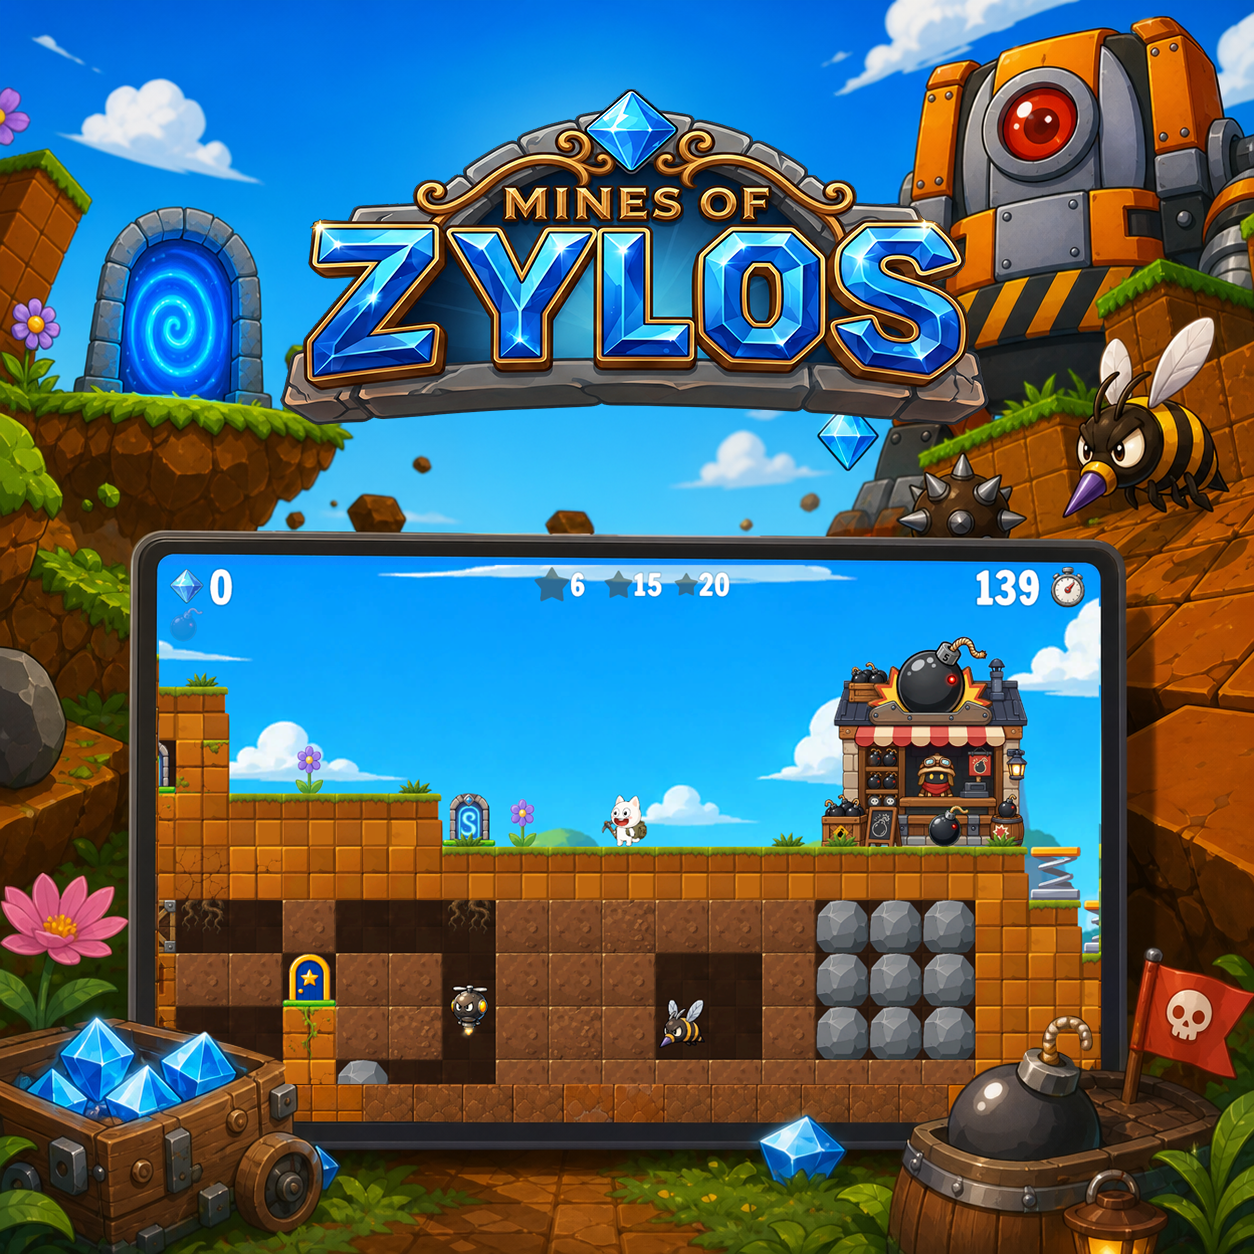
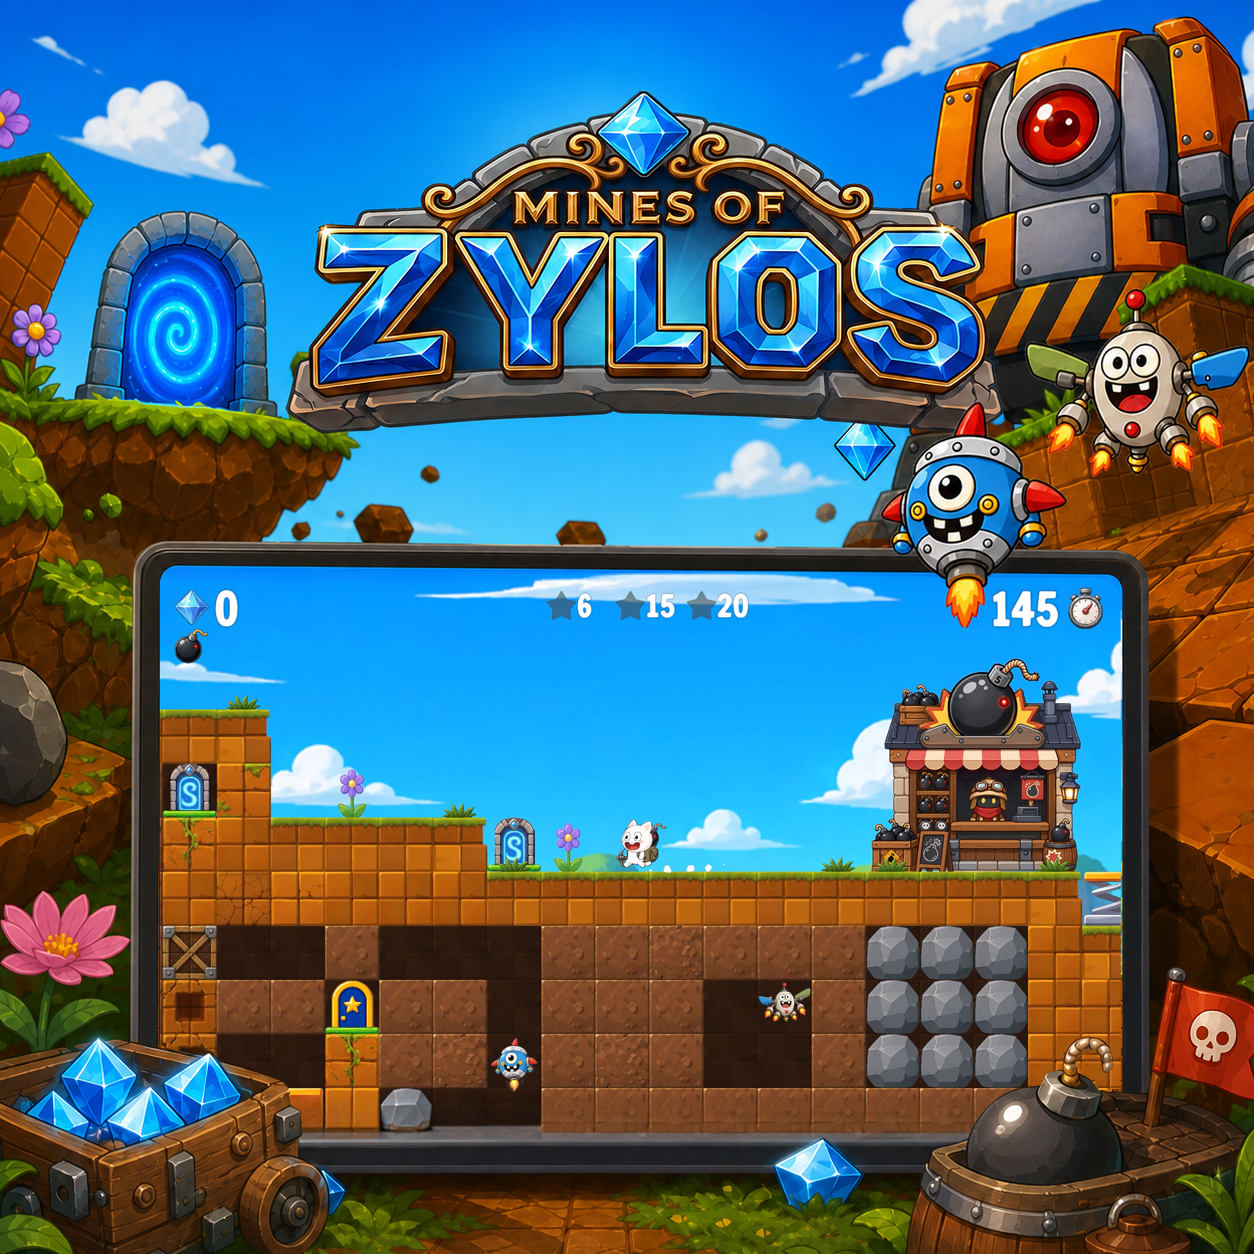
updated

diff --git a/index.html b/index.html
@@ -295,7 +295,7 @@
             </div>
           </a>
 
-          <a class="project-tile project-video reveal" data-category="game" href="https://youtu.be/tm7RFKVpKAE" target="_blank" rel="noopener" aria-label="Watch Mines of Zylos on YouTube">
+          <a class="project-tile project-video reveal" data-category="game" href="https://youtu.be/r4pzI9VNMGI" target="_blank" rel="noopener" aria-label="Watch Mines of Zylos on YouTube">
             <div class="project-art">
               <img
                 src="images/portfolio_personal_gameproject.png"